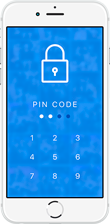
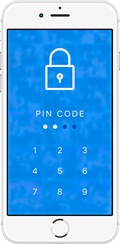
commit

diff --git a/css/style.css b/css/style.css
@@ -79,25 +79,25 @@ a, a:hover {
 
 @media only screen and (min-device-width : 375px) and (max-device-width : 667px) and (orientation : portrait) {
   .phone {
-    top: 425px;
-    left: 25px;
+    top: 400px;
+    left: 33px;
   }
   .icon {
-    top: 425px;
-    left: 155px;
+    top: 400px;
+    left: 180px;
   }
   .words {
-    top: 510px;
-    left: 155px;
+    top: 490px;
+    left: 180px;
     width: 100%;
   }
   .special-words__item_title h3 {
-    font: 25px/30px Catamaran, sans-serif;
+    font: 33px/35px Catamaran, sans-serif;
     color: #fff;
     text-transform: uppercase;
   }
   .special-words__item_content p {
-    font: 21px/20px Rubik, sans-serif;
+    font: 28px/20px Rubik, sans-serif;
     color: #ffa000;
     margin-top: 12px;
   }
